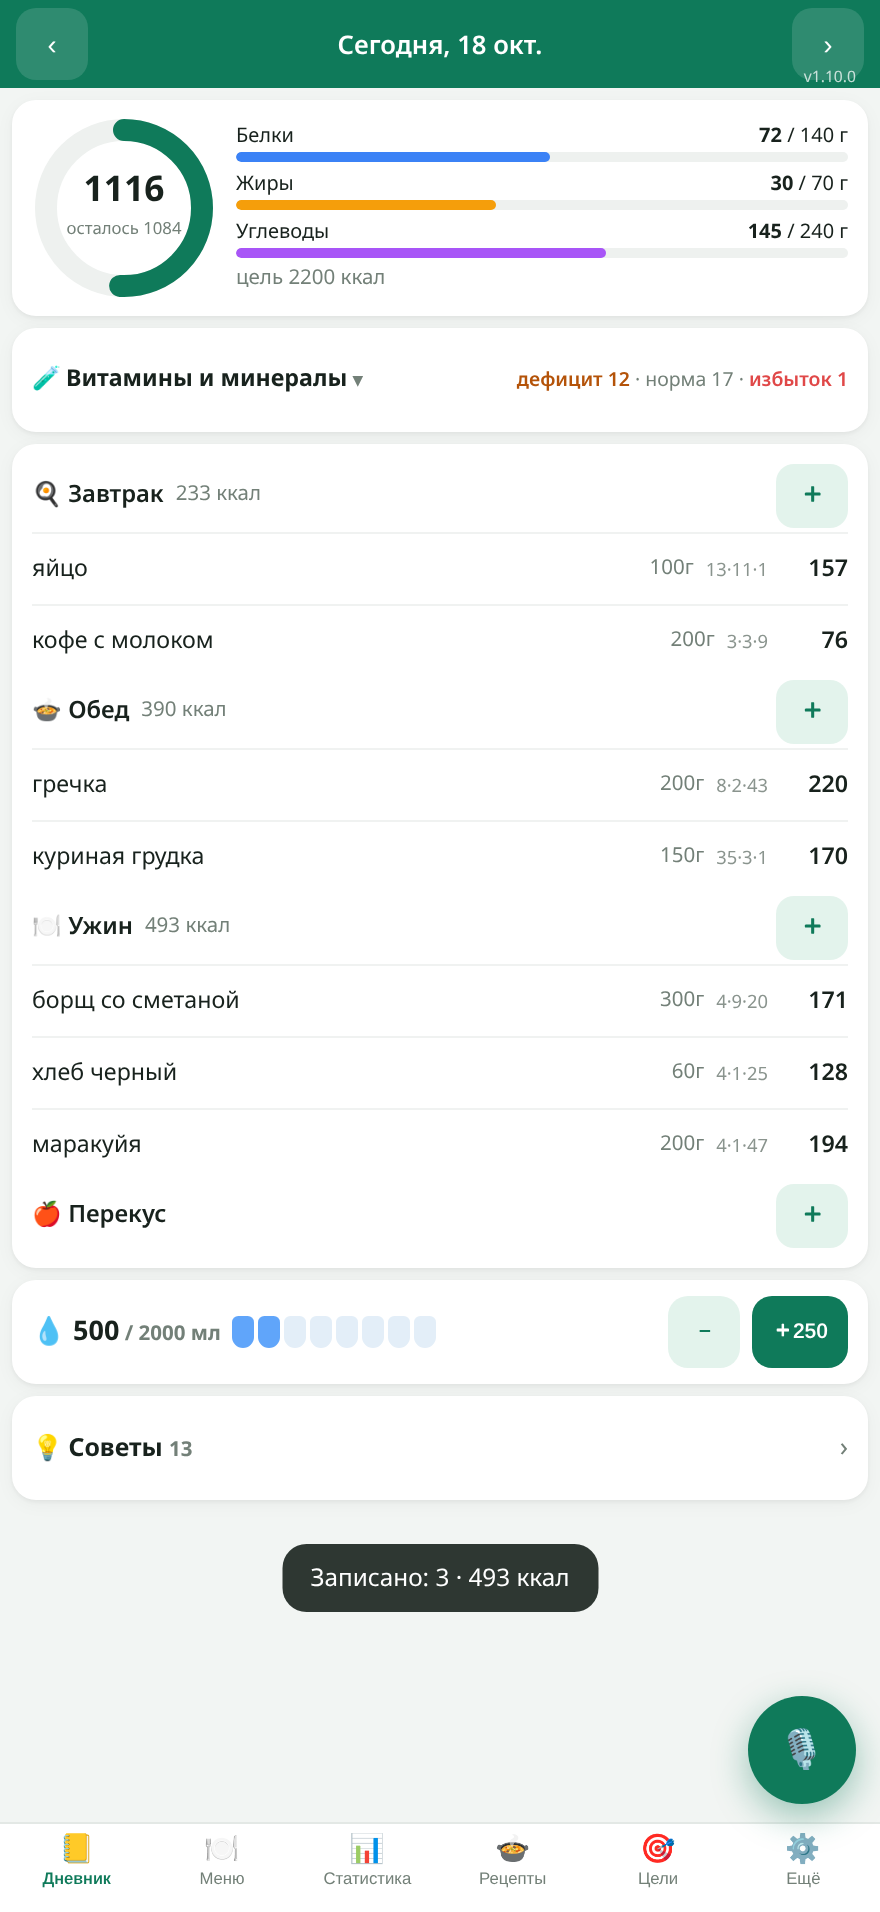
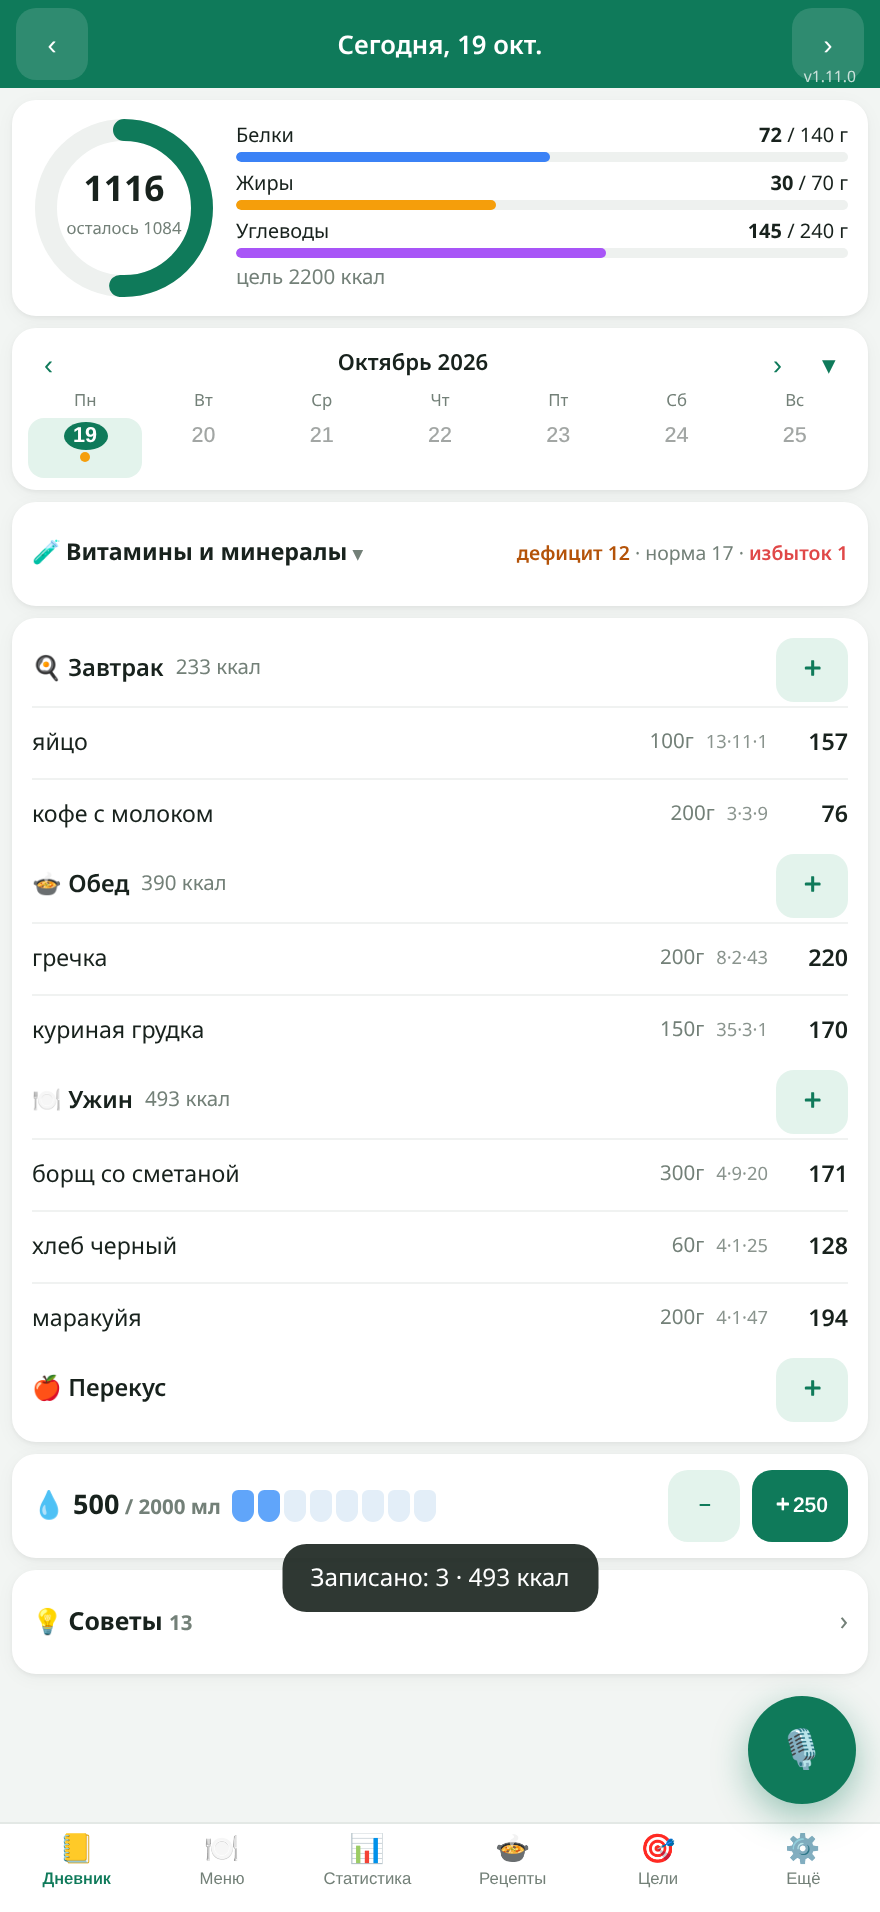
v1.11.0: calendar on diary screen (week strip / month grid, today, day status dots, tap to open day, Сегодня)

diff --git a/app.js b/app.js
@@ -1,5 +1,5 @@
 'use strict';
-const VER='1.10.0';
+const VER='1.11.0';
 const $=s=>document.querySelector(s), R=Math.round, esc=s=>String(s==null?'':s).replace(/[&<>"]/g,c=>({'&':'&amp;','<':'&lt;','>':'&gt;','"':'&quot;'}[c]));
 const MEALS=['завтрак','обед','ужин','перекус'], MI={завтрак:'🍳',обед:'🍲',ужин:'🍽',перекус:'🍎'};
 const KEY='kbju.v1';
@@ -89,12 +89,28 @@ function render(){ $('#dlabel').textContent=tab==='diary'||(tab==='stats'&&statM
   $('#nav').innerHTML=[['diary','📒','Дневник'],['menu','🍽','Меню'],['stats','📊','Статистика'],['recipes','🍲','Рецепты'],['goals','🎯','Цели'],['more','⚙','Ещё']].map(([k,i,n])=>`<button data-tab="${k}" class="${tab===k?'on':''}"><b>${i}</b>${n}</button>`).join('');
   $('#app').innerHTML=({diary:vDiary,menu:vMenu,stats:vStats,recipes:vRecipes,goals:vGoals,more:vMore})[tab](); if(tab==='diary')animMicro(); if(!render.keep)window.scrollTo(0,0); render.keep=false }
 function vDiary(){ const L=day(cur), t=tot(L), g=S.goals, w=S.water[cur]||0; const adv=advice(L,g,{water:w}); lastAdv.day=adv;
-  let h=`<div class="card">${summary(t,g)}</div>`+diaryMicro(L);
+  let h=`<div class="card">${summary(t,g)}</div>`+calHtml()+diaryMicro(L);
   h+=`<div class="card">`+MEALS.map(m=>{ const es=L.filter(e=>e.meal===m), mt=tot(es);
     return `<div class="meal"><div class="mh">${MI[m]} ${m[0].toUpperCase()+m.slice(1)} <span class="mu">${es.length?R(mt.k)+' ккал':''}</span><button class="add" data-addm="${m}">＋</button></div>`+
      es.map(e=>`<div class="it il" data-edit="${e.id}"><span class="n">${esc(e.name)}</span><span class="mu">${R(e.g)}г</span><span class="mac">${R(e.p)}·${R(e.f)}·${R(e.c)}</span><span class="k">${R(e.k)}</span></div>`).join('')+`</div>` }).join('')+`</div>`;
   if(S.set.water) h+=`<div class="card row wrow"><b>💧 ${w}<span class="mu"> / ${g.w} мл</span></b><div class="wt sp">${Array.from({length:Math.ceil(g.w/250)},(_,i)=>`<i class="${i<w/250?'f':''}"></i>`).join('')}</div><button class="btn s sm" data-water="-250">−</button><button class="btn sm" data-water="250">＋250</button></div>`;
   const th=tipsHtml(L,g); return h+advHtml(adv,'day',th,lastAdv.tips?lastAdv.tips.length:0) }
+// календарь: неделя (всегда) / месяц (по ▾); точка — статус дня по калориям
+let calM=null; const MON=['Январь','Февраль','Март','Апрель','Май','Июнь','Июль','Август','Сентябрь','Октябрь','Ноябрь','Декабрь'];
+const monOf=k=>pd(k.slice(0,7)+'-01'), wkStart=k=>addD(k,-((pd(k).getDay()+6)%7));
+function calSt(k){ const L=day(k); if(!L.length)return ''; const r=tot(L).k/(S.goals.k||1); return r<.85?'lo':r>1.1?'hi':'ok' }
+function calCell(k,m){ const t=dk(), st=calSt(k), kc=st?R(tot(day(k)).k):'';
+  return `<button class="cd${k===t?' td':''}${k===cur?' sel':''}${m!=null&&pd(k).getMonth()!==m?' oth':''}${k>t?' fut':''}" data-cal="${k}"><b>${pd(k).getDate()}</b><i class="${st}"></i>${S.set.cal&&kc?`<s>${kc}</s>`:''}</button>` }
+function calHtml(){ const open=!!S.set.cal, t=dk(); if(!calM||!open)calM=dk(monOf(cur)); let days=[], m=null;
+  if(open){ const f=monOf(calM); m=f.getMonth(); let k=wkStart(dk(f)); do{ for(let i=0;i<7;i++){days.push(k);k=addD(k,1)} }while(pd(k).getMonth()===m) }
+  else{ const s=wkStart(cur); for(let i=0;i<7;i++)days.push(addD(s,i)) }
+  const mf=monOf(calM), title=open?MON[mf.getMonth()]+' '+mf.getFullYear():MON[pd(cur).getMonth()]+' '+pd(cur).getFullYear();
+  return `<div class="card cal"><div class="row ch"><button class="cn" data-calm="-1">‹</button><span class="sp ct">${title}</span>${cur!==t?'<button class="ctd" data-caltoday="1">Сегодня</button>':''}<button class="cn" data-calm="1">›</button><button class="cn" data-caltog="1">${open?'▴':'▾'}</button></div>
+  <div class="cg">${WD.map(w=>`<span class="wd">${w}</span>`).join('')}${days.map(k=>calCell(k,m)).join('')}</div>${open?'<div class="mu cl"><i class="lo"></i>мало <i class="ok"></i>норма <i class="hi"></i>перебор</div>':''}</div>` }
+function calClick(d){ if(d.cal){cur=d.cal;render.keep=true;render();return true}
+  if(d.caltoday){cur=dk();calM=null;render.keep=true;render();return true}
+  if(d.caltog){S.set.cal=!S.set.cal;save();calM=null;render.keep=true;render();return true}
+  if(d.calm){ if(S.set.cal){const f=monOf(calM);f.setMonth(f.getMonth()+ +d.calm);calM=dk(f)} else cur=addD(cur,7*d.calm); render.keep=true;render();return true } return false }
 const SHORT={A:'Вит. A',D:'Вит. D',E:'Вит. E',K:'Вит. K',C:'Вит. C',B1:'B1',B2:'B2',B3:'B3 (PP)',B5:'B5',B6:'B6',B7:'B7 биотин',B9:'B9 фолаты',B12:'B12',Ch:'Холин',Ca:'Кальций',P:'Фосфор',Mg:'Магний',K_:'Калий',Na:'Натрий',Fe:'Железо',Zn:'Цинк',Cu:'Медь',Mn:'Марганец',Se:'Селен',I:'Йод',Cr:'Хром',Fib:'Клетчатка',O3:'Омега-3',Sug:'Сахара',Chol:'Холестерин'};
 let microPrev={};
 function diaryMicro(L){ const a=MICROS.analyze([L],S.prof,MK,microLookup); lastAdv.micro=a; const low=a.list.filter(d=>d.st==='low').length, over=a.list.filter(d=>d.st==='over').length, ok=a.list.length-low-over;
@@ -419,6 +435,7 @@ document.addEventListener('click',e=>{ const mr=e.target.closest('[data-mic]'); 
   const t=e.target.closest('button,[data-edit],[data-pf],.sheet'); if(!t)return; const d=t.dataset;
   if(t.classList.contains('sheet')){ if(e.target===t)closeSheet(t.id==='sheet2'?2:1); return }
   if(dictClick(d,t))return; if(tab==='menu'&&menuClick(d,t))return;
+  if(tab==='diary'&&calClick(d))return;
   if(d.tab){tab=d.tab;render();return} if(d.sm){statMode=d.sm;render();return}
   if(t.id==='prev'||t.id==='next'){cur=addD(cur,t.id==='prev'?-1:1);render();return}
   if(t.id==='fab'){openVoice();return} if(d.addm){openVoice(d.addm);return}

diff --git a/index.html b/index.html
@@ -78,6 +78,10 @@ details.col>summary{list-style:none;cursor:pointer;min-height:36px}details.col>s
 .lnk{background:none;border:0;padding:0;font:inherit;color:var(--g);text-decoration:underline;cursor:pointer}.srcs{font-size:.78rem;line-height:1.45}.srcs p{margin:6px 0}
 .dday .it .dg{width:58px;padding:3px 4px;font-size:.8rem;text-align:right}.dnote{font-size:.68rem;margin:-2px 0 4px 6px;line-height:1.35}
 .mh .mreg{margin-left:auto;margin-right:4px;border:0;background:var(--g2);border-radius:9px;min-width:36px;min-height:32px;padding:0 8px;font-size:.85rem}.mh .mreg+.add{margin-left:0}.swcur{margin:2px 0 8px}.swo{display:grid;grid-template-columns:1fr auto 44px;grid-template-rows:auto auto;gap:0 8px;width:100%;text-align:left;background:var(--card,#fff);border:1px solid #e3e8e5;border-radius:10px;padding:7px 10px;margin:5px 0;font:inherit;font-size:.88rem;cursor:pointer}.swo .k{text-align:right;font-weight:600}.swo .swd{grid-column:1/4;font-size:.68rem;color:#8a948e}.swo .swd.bad{color:#c0553b}.swo:active{background:#eef6f1}
+.cal{padding:6px 8px}.cal .ch{gap:4px;margin-bottom:2px}.cal .ct{font-weight:600;font-size:.82rem;text-align:center}.cal .cn{border:0;background:none;color:var(--g);font-size:1rem;padding:0 8px;height:24px}.cal .ctd{border:0;background:var(--g2);color:var(--g);border-radius:8px;font-size:.72rem;font-weight:600;padding:3px 7px}
+.cg{display:grid;grid-template-columns:repeat(7,1fr);gap:2px;text-align:center}.cg .wd{font-size:.62rem;color:var(--mu)}.cd{border:0;background:none;border-radius:8px;padding:2px 0;display:flex;flex-direction:column;align-items:center;min-height:30px;color:var(--tx)}.cd b{font-size:.8rem;font-weight:500;line-height:1.3}.cd s{text-decoration:none;font-size:.55rem;color:var(--mu)}
+.cd.oth,.cd.fut{opacity:.4}.cd.td b{color:#fff;background:var(--g);border-radius:50%;width:22px;font-weight:700}.cd.sel{background:var(--g2)}.cd.sel.td{background:var(--g2)}
+.cal i{display:inline-block;width:5px;height:5px;border-radius:50%;margin-top:1px}.cal i.ok{background:var(--g)}.cal i.lo{background:var(--F)}.cal i.hi{background:var(--red)}.cl{font-size:.65rem;text-align:center;margin-top:2px}.cl i{margin:0 2px 0 6px}
 </style></head><body>
 <header><button id="prev" aria-label="Предыдущий день">‹</button><div class="d" id="dlabel"></div><button id="next" aria-label="Следующий день">›</button><span id="ver"></span></header>
 <main id="app"></main>

diff --git a/sw.js b/sw.js
@@ -1,4 +1,4 @@
-const V='1.10.0',C='kbju-'+V,F=['./','index.html','app.js','parser.js','nutri.js','db.js','micro.js','micros.js','menu.js','cook.js','dictate.js','manifest.json','icon-192.png','icon-512.png','apple-touch-icon.png'];
+const V='1.11.0',C='kbju-'+V,F=['./','index.html','app.js','parser.js','nutri.js','db.js','micro.js','micros.js','menu.js','cook.js','dictate.js','manifest.json','icon-192.png','icon-512.png','apple-touch-icon.png'];
 self.addEventListener('install',e=>{e.waitUntil(caches.open(C).then(c=>c.addAll(F.map(u=>new Request(u,{cache:'reload'})))));self.skipWaiting()});
 self.addEventListener('activate',e=>{e.waitUntil(caches.keys().then(k=>Promise.all(k.filter(x=>x!==C).map(x=>caches.delete(x)))).then(()=>self.clients.claim()))});
 // network-first без HTTP-кэша (cache:'no-store' — iOS не отдаст устаревший index.html); офлайн — из кэша

diff --git a/tests/e2e.py b/tests/e2e.py
@@ -23,7 +23,7 @@ async def main():
     await c.add_init_script(FAKE); pg=await c.new_page()
     pg.on('console',lambda m: m.type=='error' and errs.append(m.text)); pg.on('pageerror',lambda e: errs.append(str(e)))
     await pg.goto(URL); await pg.wait_for_selector('#nav button')
-    assert 'v1.10.0' in await pg.inner_text('#ver')
+    assert 'v1.11.0' in await pg.inner_text('#ver')
     assert await pg.locator('text=🔊').count()==0, 'нет кнопок озвучки'
     # --- микрофон-переключатель: 3 сессии (iOS-рестарты) до нажатия «стоп»
     await pg.evaluate("window.__chunks=['на завтрак два яйца','и кофе с молоком','на обед 200 грамм гречки и куриная грудка']")
